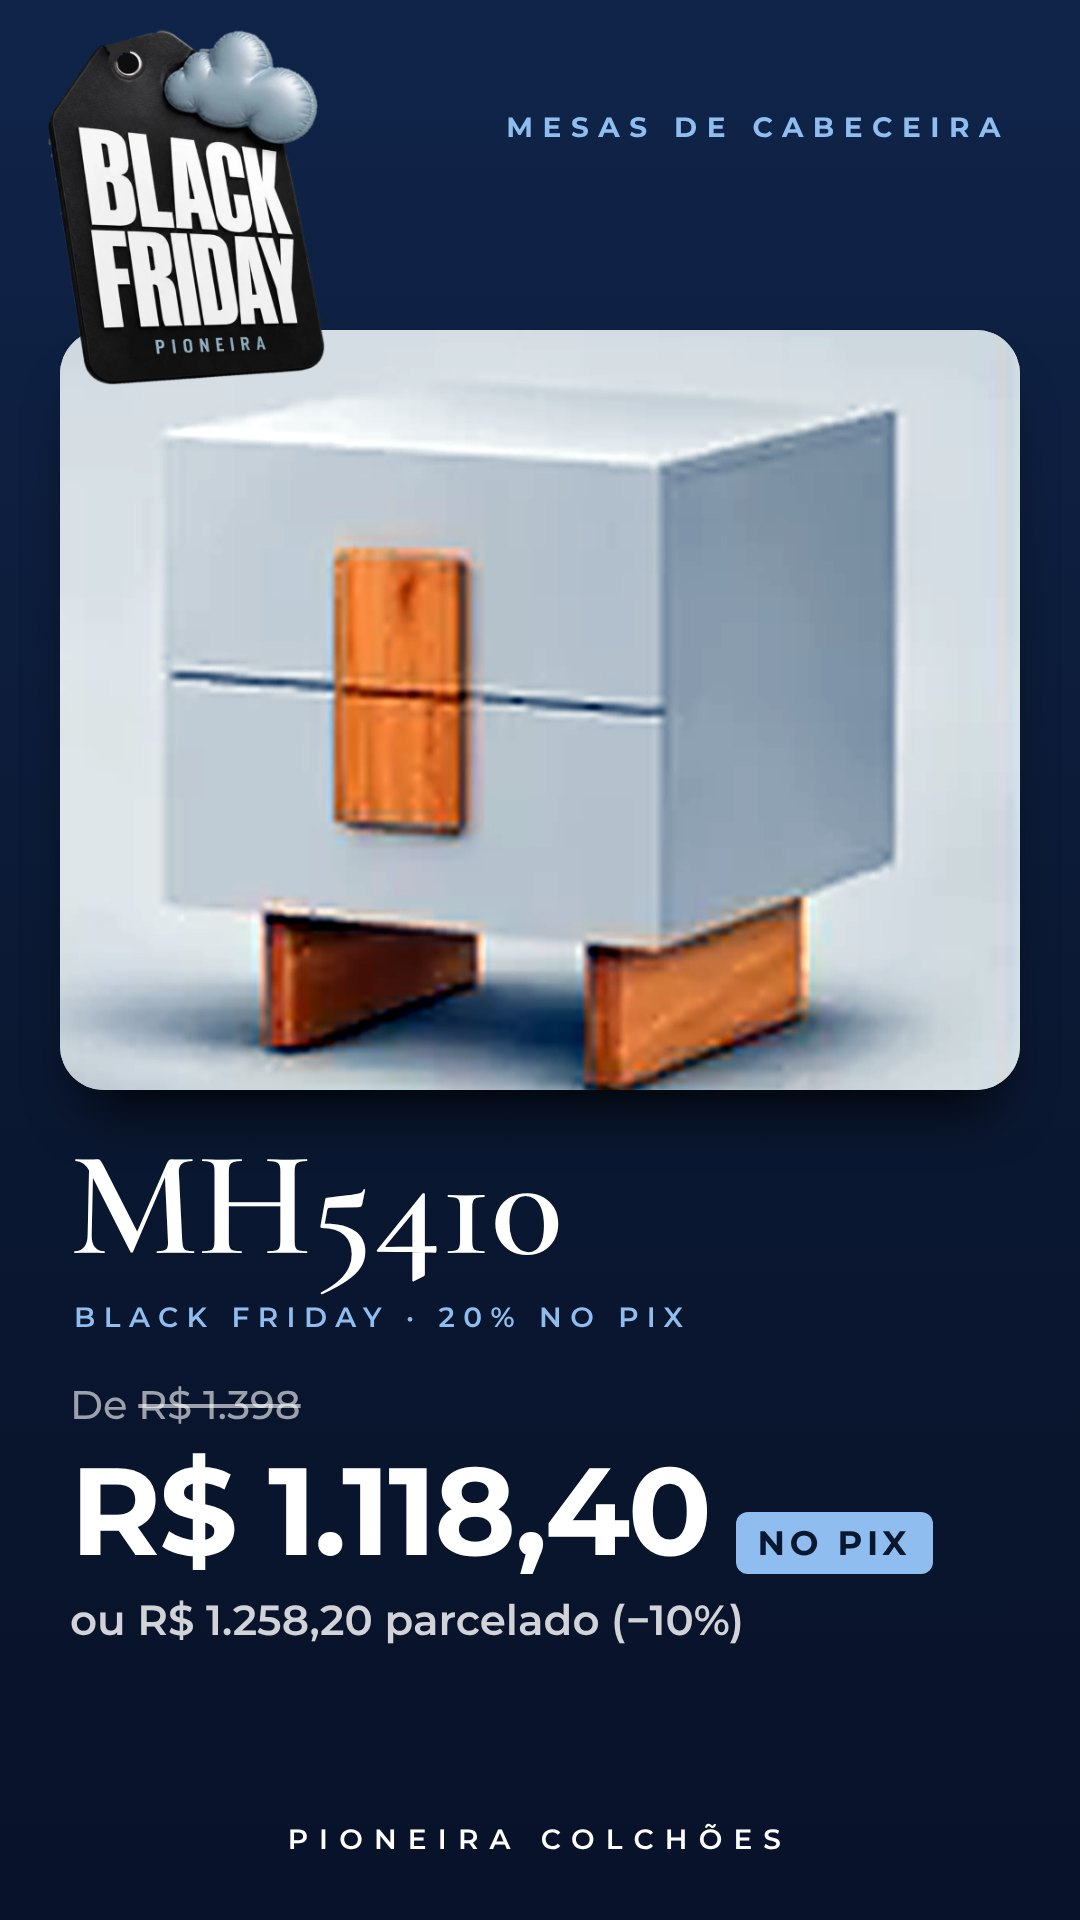
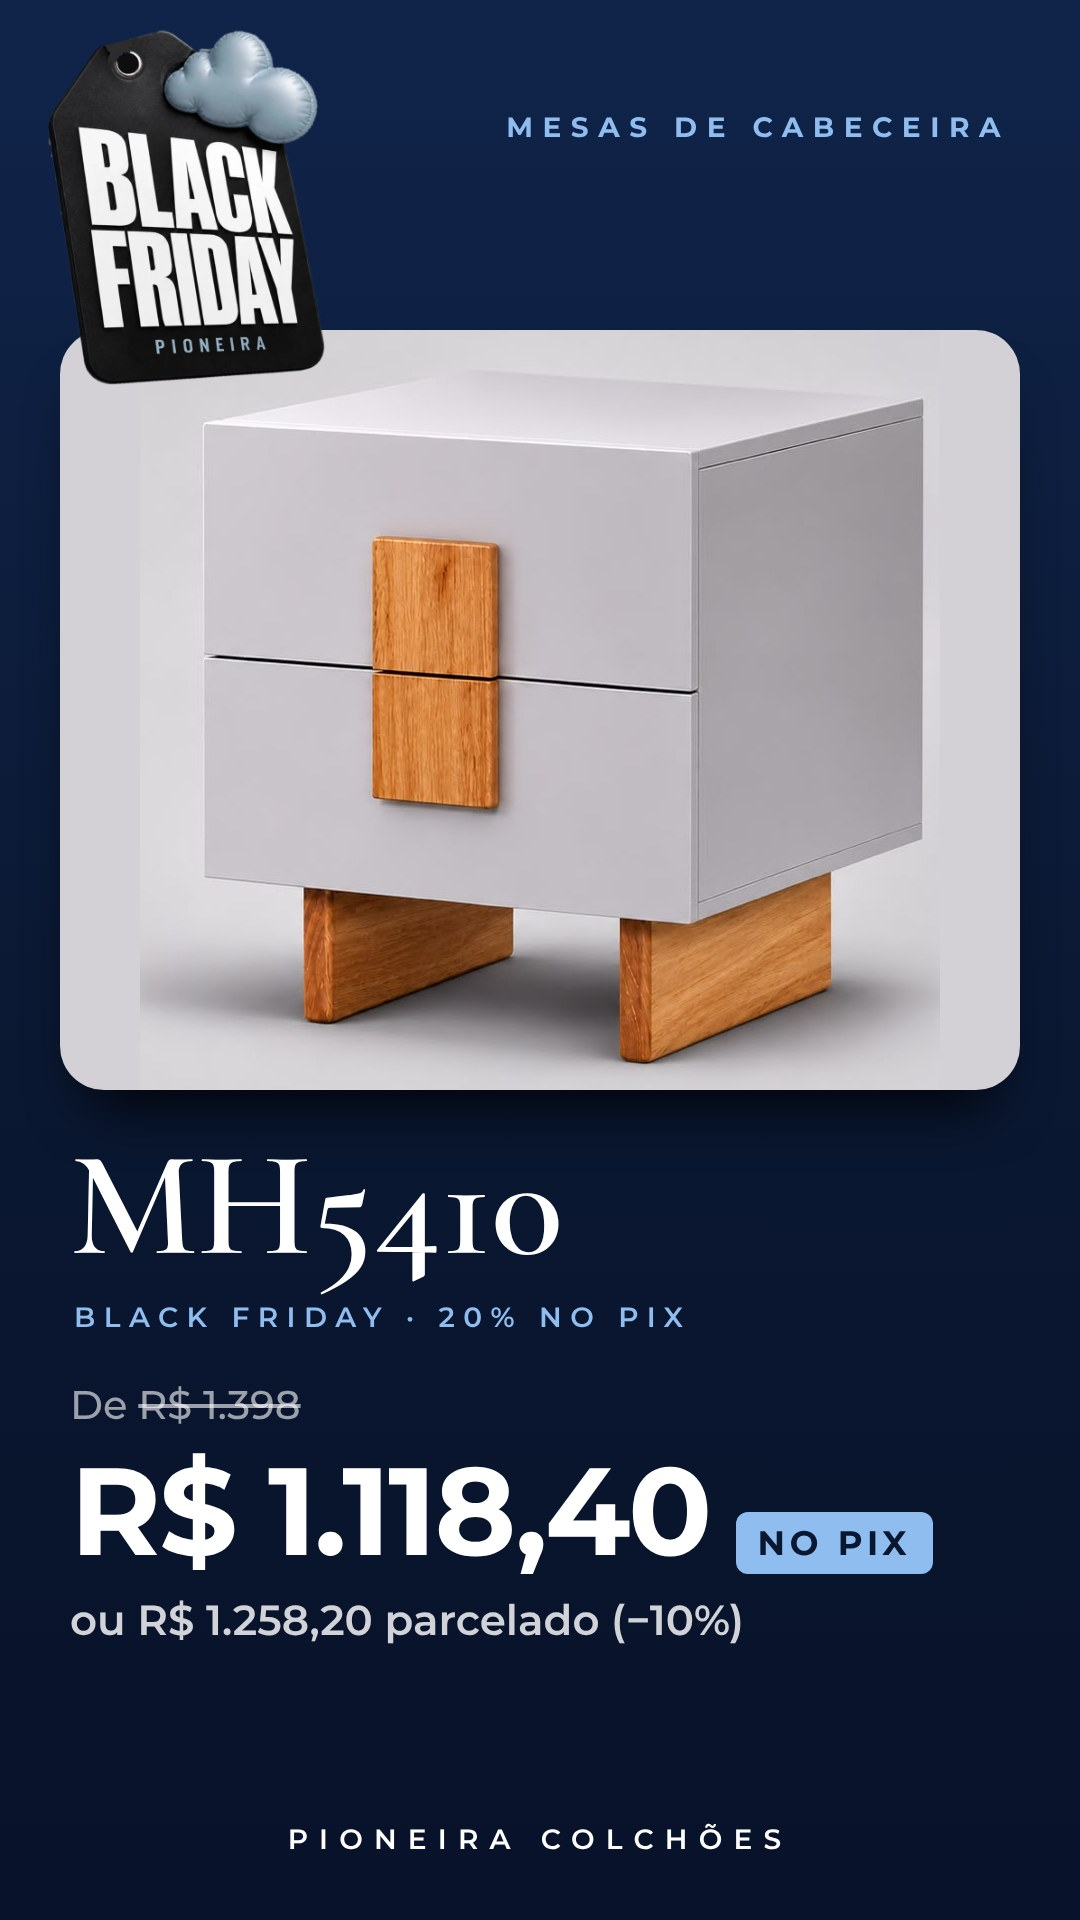
Mesas de cabeceira: artes refeitas com as fotos originais em alta resolução; tabela com nomes MH5404/5405/5410
Claude-Session: https://claude.ai/code/session_01Wenqvw9cMbUz8i68jYt1Pp

Changed region(s): [[0.0611, 0.1875, 0.8861, 0.5938]]

diff --git a/index.html b/index.html
@@ -13,7 +13,7 @@
 <meta name="twitter:card" content="summary_large_image"><meta name="twitter:title" content="Black Friday Pioneira"><meta name="twitter:image" content="https://apioneiracolchoes.pages.dev/img/card-oferta.jpg">
 <link rel="icon" href="icon.svg" type="image/svg+xml"><link rel="apple-touch-icon" href="icon-180.png"><link rel="manifest" href="manifest.webmanifest">
 <link rel="stylesheet" href="https://fonts.googleapis.com/css2?family=Cormorant+Garamond:ital,wght@0,500;0,600;1,500&family=Montserrat:wght@400;500;600&family=Comfortaa:wght@600;700&display=swap">
-<link rel="stylesheet" href="style.css?v=20261109d"></head><body>
+<link rel="stylesheet" href="style.css?v=20261110a"></head><body>
 <div id="splash"><span class="logo big"><svg class="cloud" viewBox="0 0 64 40" aria-hidden="true"><path fill="#6db3f0" d="M16 38a12 12 0 0 1-2-23.8A15 15 0 0 1 43 11a13 13 0 0 1 6 27z"/></svg><b>apioneira</b><small>COLCHÕES</small></span></div>
 <div id="app"></div>
-<script>window.BUILD="20261109d"</script><script src="config.js?v=20261106c"></script><script src="products.js?v=20261106c"></script><script src="app.js?v=20261106c"></script></body></html>
+<script>window.BUILD="20261110a"</script><script src="config.js?v=20261106c"></script><script src="products.js?v=20261106c"></script><script src="app.js?v=20261106c"></script></body></html>
